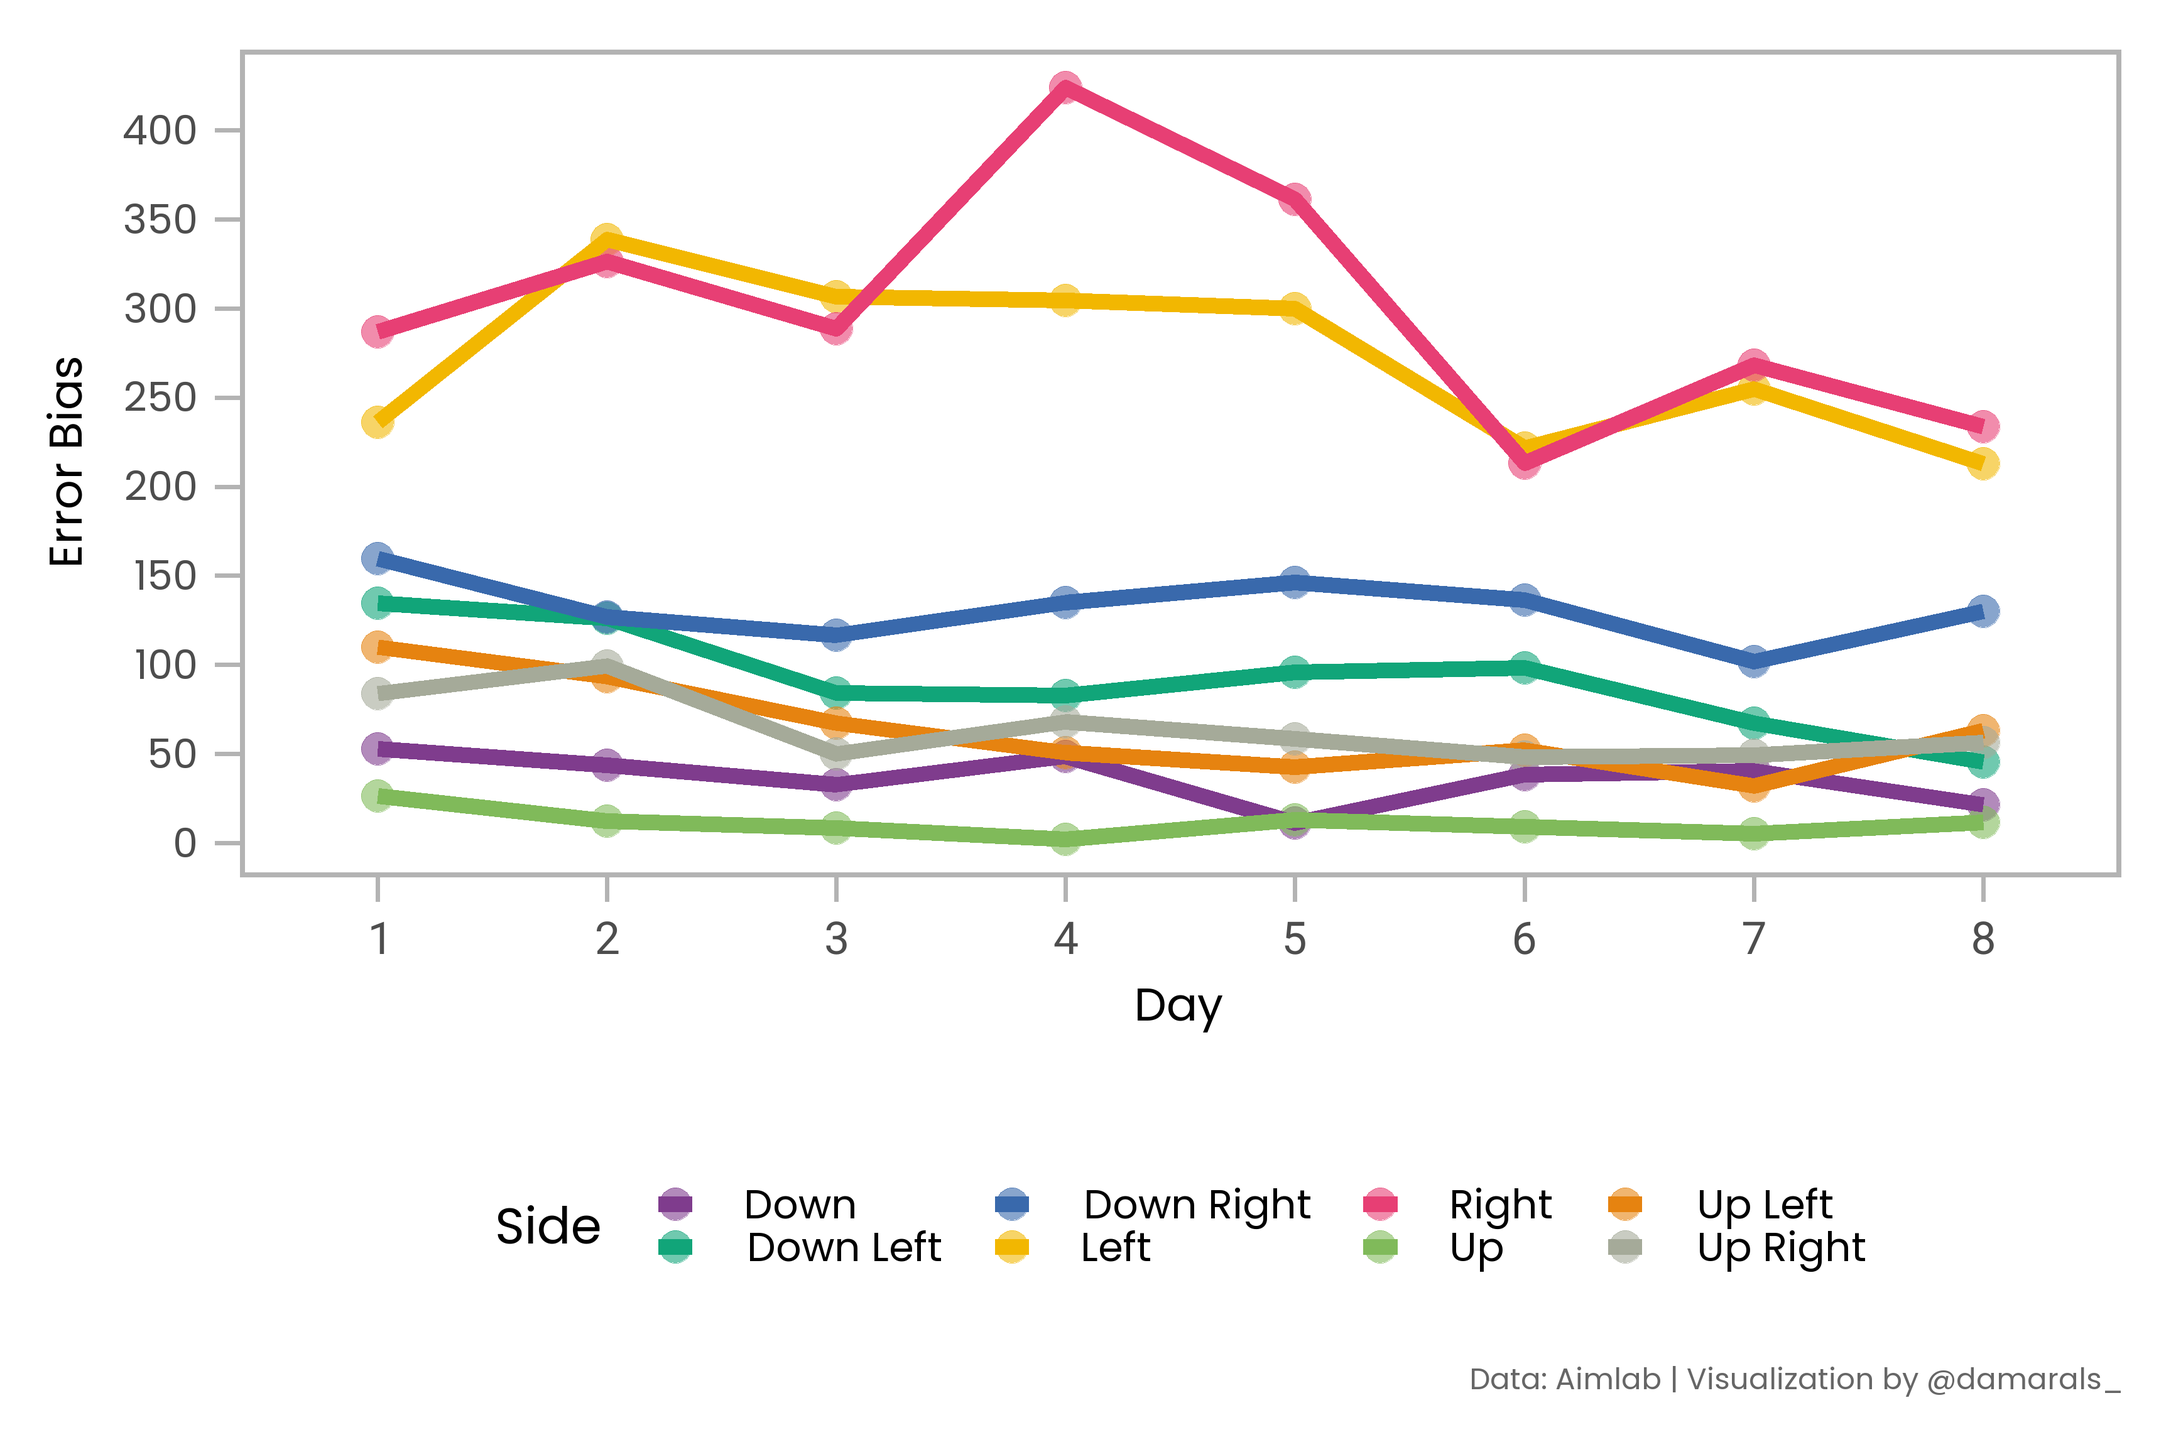
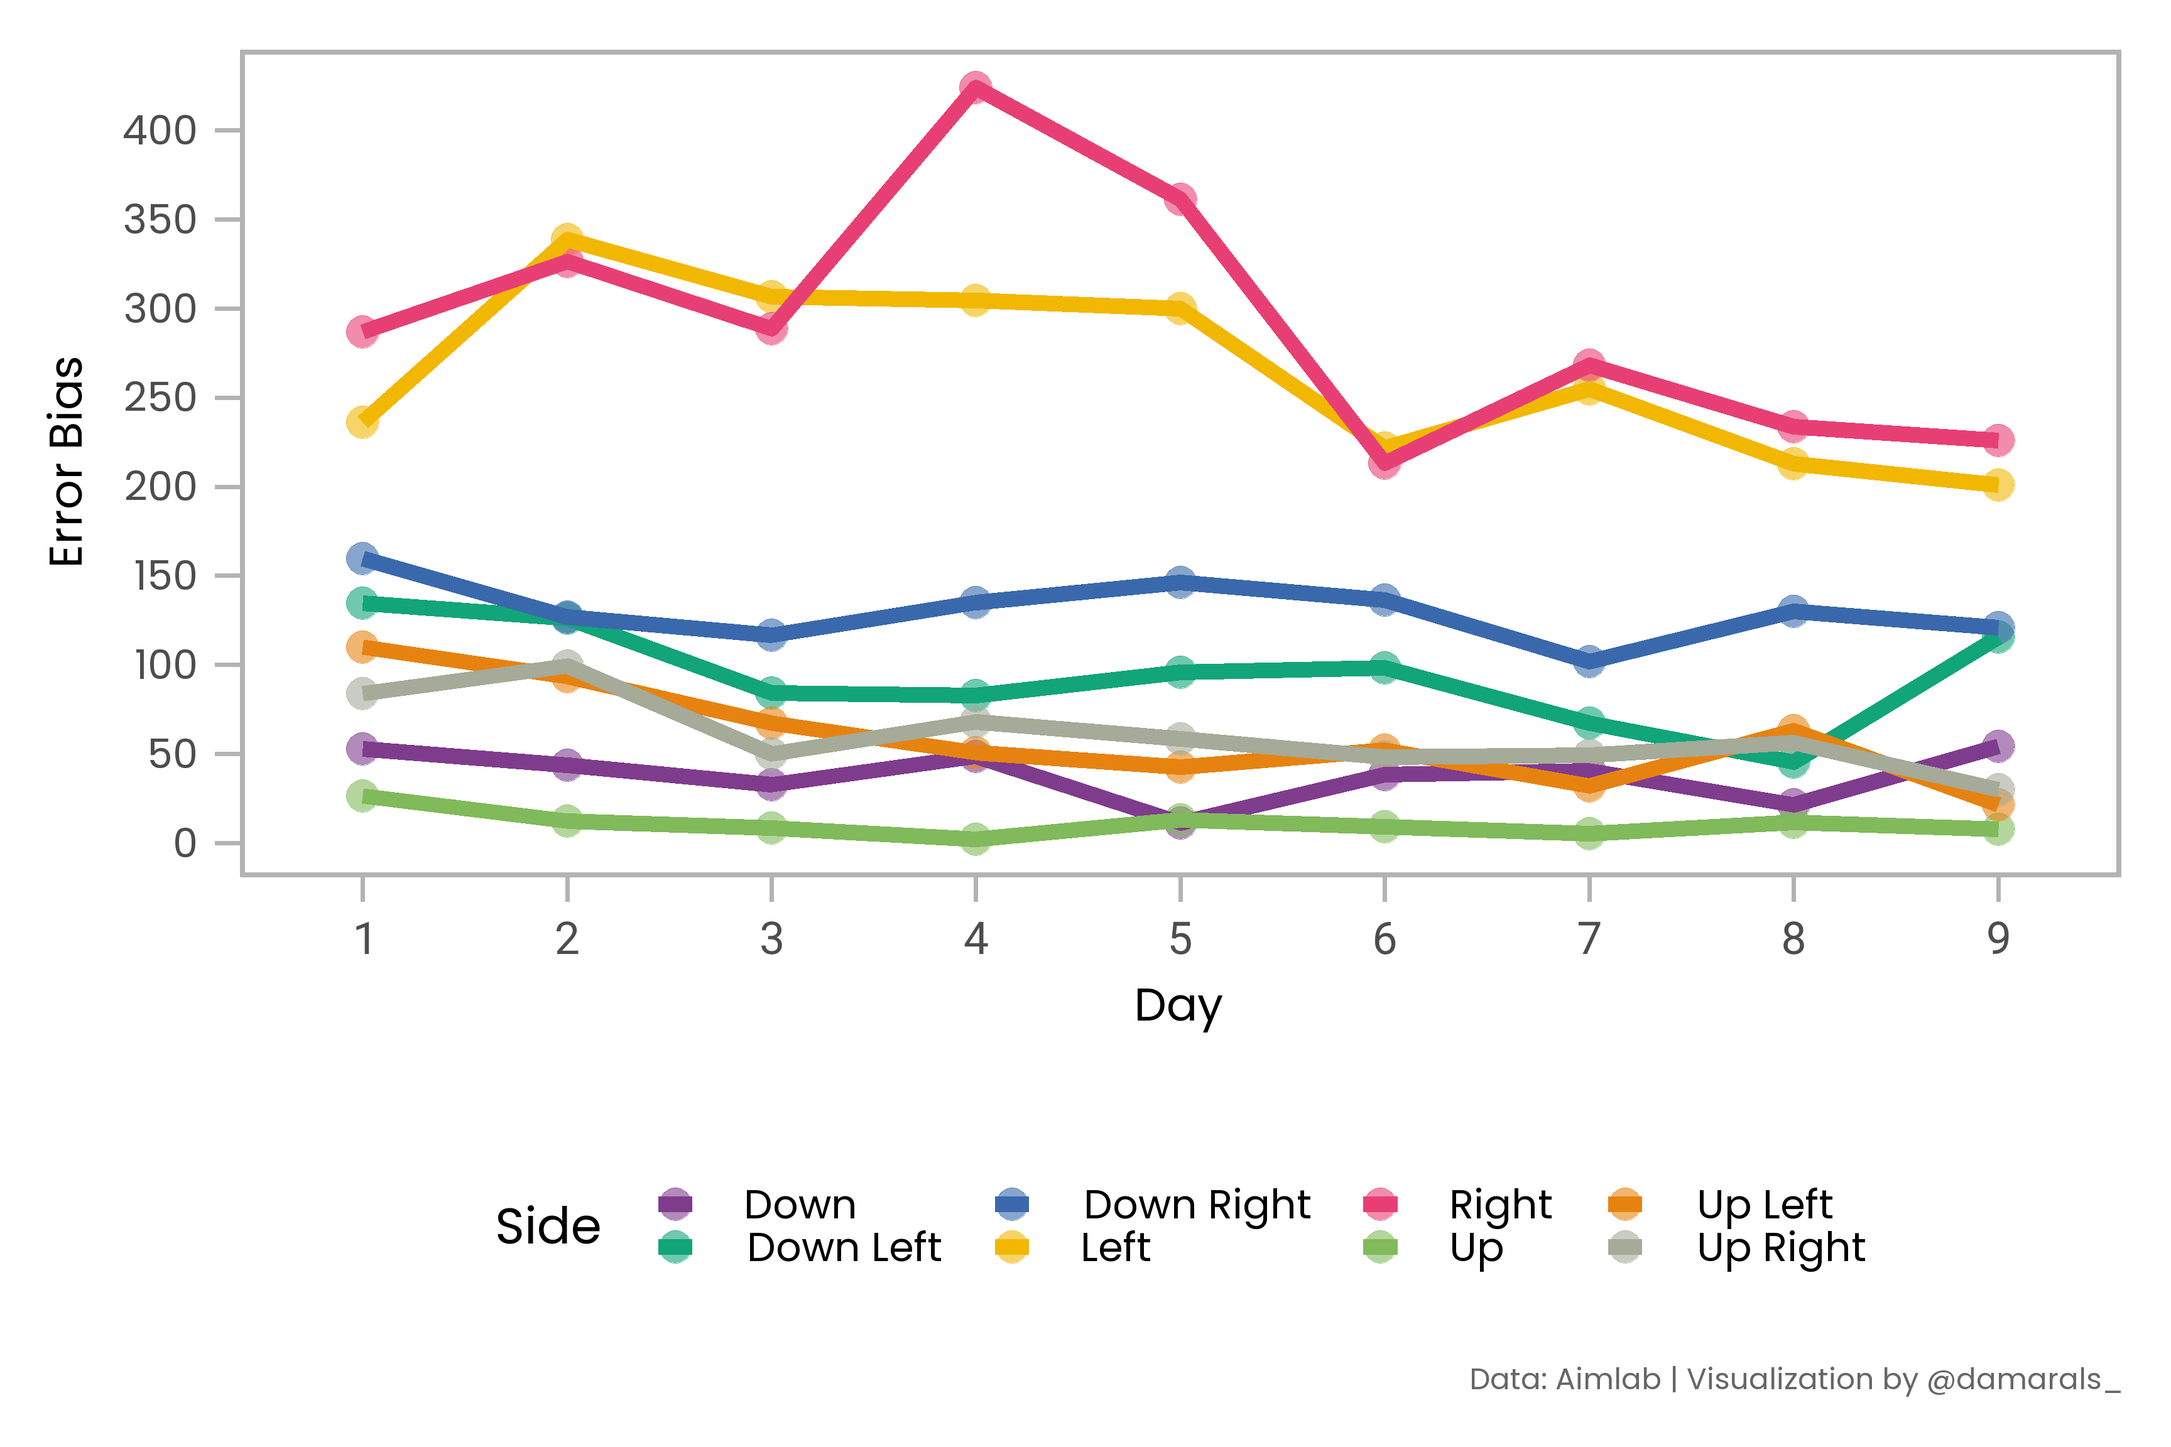
:sparkles: update data

diff --git a/docs/posts/2022-05-13_aimlab-is-worth/index.html b/docs/posts/2022-05-13_aimlab-is-worth/index.html
@@ -281,16 +281,17 @@ code span.wa { color: #60a0b0; font-weight: bold; font-style: italic; } /* Warni
 <span id="cb2-9"><a href="#cb2-9" aria-hidden="true" tabindex="-1"></a>    purrr<span class="sc">::</span><span class="fu">pluck</span>(<span class="st">"result"</span>) <span class="sc">%&gt;%</span></span>
 <span id="cb2-10"><a href="#cb2-10" aria-hidden="true" tabindex="-1"></a>    janitor<span class="sc">::</span><span class="fu">clean_names</span>() <span class="sc">%&gt;%</span></span>
 <span id="cb2-11"><a href="#cb2-11" aria-hidden="true" tabindex="-1"></a>    dplyr<span class="sc">::</span><span class="fu">mutate</span>(<span class="at">create_date =</span> lubridate<span class="sc">::</span><span class="fu">mdy_hms</span>(create_date),</span>
-<span id="cb2-12"><a href="#cb2-12" aria-hidden="true" tabindex="-1"></a>                  <span class="at">create_date_group =</span> lubridate<span class="sc">::</span><span class="fu">as_date</span>(create_date)) <span class="sc">%&gt;%</span></span>
-<span id="cb2-13"><a href="#cb2-13" aria-hidden="true" tabindex="-1"></a>    dplyr<span class="sc">::</span><span class="fu">filter</span>(create_date <span class="sc">&gt;</span> start_training) <span class="sc">%&gt;%</span></span>
-<span id="cb2-14"><a href="#cb2-14" aria-hidden="true" tabindex="-1"></a>    dplyr<span class="sc">::</span><span class="fu">group_by</span>(create_date_group) <span class="sc">%&gt;%</span></span>
-<span id="cb2-15"><a href="#cb2-15" aria-hidden="true" tabindex="-1"></a>    dplyr<span class="sc">::</span><span class="fu">top_n</span>(<span class="dv">5</span>, create_date) <span class="sc">%&gt;%</span></span>
-<span id="cb2-16"><a href="#cb2-16" aria-hidden="true" tabindex="-1"></a>    dplyr<span class="sc">::</span><span class="fu">ungroup</span>() <span class="sc">%&gt;%</span></span>
-<span id="cb2-17"><a href="#cb2-17" aria-hidden="true" tabindex="-1"></a>    dplyr<span class="sc">::</span><span class="fu">select</span>(<span class="sc">-</span>weapon_name, <span class="sc">-</span>map, <span class="sc">-</span>version, <span class="sc">-</span>mode) <span class="sc">%&gt;%</span></span>
-<span id="cb2-18"><a href="#cb2-18" aria-hidden="true" tabindex="-1"></a>    dplyr<span class="sc">::</span><span class="fu">mutate</span>(<span class="at">day =</span> dplyr<span class="sc">::</span><span class="fu">dense_rank</span>(create_date_group),</span>
-<span id="cb2-19"><a href="#cb2-19" aria-hidden="true" tabindex="-1"></a>                  <span class="at">day =</span> <span class="fu">factor</span>(day),</span>
-<span id="cb2-20"><a href="#cb2-20" aria-hidden="true" tabindex="-1"></a>                  <span class="at">create_date_group =</span> <span class="fu">factor</span>(create_date_group))</span>
-<span id="cb2-21"><a href="#cb2-21" aria-hidden="true" tabindex="-1"></a>})</span></code><button title="Copy to Clipboard" class="code-copy-button"><i class="bi"></i></button></pre></div>
+<span id="cb2-12"><a href="#cb2-12" aria-hidden="true" tabindex="-1"></a>                  <span class="at">create_date =</span> create_date <span class="sc">-</span> lubridate<span class="sc">::</span><span class="fu">hours</span>(<span class="dv">6</span>),</span>
+<span id="cb2-13"><a href="#cb2-13" aria-hidden="true" tabindex="-1"></a>                  <span class="at">create_date_group =</span> lubridate<span class="sc">::</span><span class="fu">as_date</span>(create_date)) <span class="sc">%&gt;%</span></span>
+<span id="cb2-14"><a href="#cb2-14" aria-hidden="true" tabindex="-1"></a>    dplyr<span class="sc">::</span><span class="fu">filter</span>(create_date <span class="sc">&gt;</span> start_training) <span class="sc">%&gt;%</span></span>
+<span id="cb2-15"><a href="#cb2-15" aria-hidden="true" tabindex="-1"></a>    dplyr<span class="sc">::</span><span class="fu">group_by</span>(create_date_group) <span class="sc">%&gt;%</span></span>
+<span id="cb2-16"><a href="#cb2-16" aria-hidden="true" tabindex="-1"></a>    dplyr<span class="sc">::</span><span class="fu">top_n</span>(<span class="dv">5</span>, create_date) <span class="sc">%&gt;%</span></span>
+<span id="cb2-17"><a href="#cb2-17" aria-hidden="true" tabindex="-1"></a>    dplyr<span class="sc">::</span><span class="fu">ungroup</span>() <span class="sc">%&gt;%</span></span>
+<span id="cb2-18"><a href="#cb2-18" aria-hidden="true" tabindex="-1"></a>    dplyr<span class="sc">::</span><span class="fu">select</span>(<span class="sc">-</span>weapon_name, <span class="sc">-</span>map, <span class="sc">-</span>version, <span class="sc">-</span>mode) <span class="sc">%&gt;%</span></span>
+<span id="cb2-19"><a href="#cb2-19" aria-hidden="true" tabindex="-1"></a>    dplyr<span class="sc">::</span><span class="fu">mutate</span>(<span class="at">day =</span> dplyr<span class="sc">::</span><span class="fu">dense_rank</span>(create_date_group),</span>
+<span id="cb2-20"><a href="#cb2-20" aria-hidden="true" tabindex="-1"></a>                  <span class="at">day =</span> <span class="fu">factor</span>(day),</span>
+<span id="cb2-21"><a href="#cb2-21" aria-hidden="true" tabindex="-1"></a>                  <span class="at">create_date_group =</span> <span class="fu">factor</span>(create_date_group))</span>
+<span id="cb2-22"><a href="#cb2-22" aria-hidden="true" tabindex="-1"></a>})</span></code><button title="Copy to Clipboard" class="code-copy-button"><i class="bi"></i></button></pre></div>
 </details>
 </div>
 </section>
@@ -634,27 +635,41 @@ code span.wa { color: #60a0b0; font-weight: bold; font-style: italic; } /* Warni
 <span id="cb13-10"><a href="#cb13-10" aria-hidden="true" tabindex="-1"></a>                        <span class="at">color =</span> <span class="st">"#A034F0"</span>, <span class="at">size =</span> <span class="dv">9</span>, <span class="at">alpha =</span> <span class="fl">0.6</span>) <span class="sc">+</span></span>
 <span id="cb13-11"><a href="#cb13-11" aria-hidden="true" tabindex="-1"></a>  ggplot2<span class="sc">::</span><span class="fu">stat_summary</span>(<span class="at">fun =</span> mean, <span class="at">geom =</span> <span class="st">"line"</span>,</span>
 <span id="cb13-12"><a href="#cb13-12" aria-hidden="true" tabindex="-1"></a>                        <span class="at">color =</span> <span class="st">"#A034F0"</span>, <span class="at">size =</span> <span class="dv">5</span>) <span class="sc">+</span></span>
-<span id="cb13-13"><a href="#cb13-13" aria-hidden="true" tabindex="-1"></a>  ggplot2<span class="sc">::</span><span class="fu">scale_y_continuous</span>(</span>
-<span id="cb13-14"><a href="#cb13-14" aria-hidden="true" tabindex="-1"></a>    <span class="at">breaks =</span> scales<span class="sc">::</span><span class="fu">pretty_breaks</span>(<span class="dv">8</span>),</span>
-<span id="cb13-15"><a href="#cb13-15" aria-hidden="true" tabindex="-1"></a>    <span class="at">sec.axis =</span> ggplot2<span class="sc">::</span><span class="fu">sec_axis</span>(<span class="sc">~</span><span class="dv">100</span><span class="sc">/</span>., <span class="at">name =</span> <span class="st">"Kills per Second"</span>,</span>
-<span id="cb13-16"><a href="#cb13-16" aria-hidden="true" tabindex="-1"></a>                                 <span class="at">breaks =</span> scales<span class="sc">::</span><span class="fu">pretty_breaks</span>(<span class="dv">8</span>))) <span class="sc">+</span></span>
-<span id="cb13-17"><a href="#cb13-17" aria-hidden="true" tabindex="-1"></a>  ggplot2<span class="sc">::</span><span class="fu">labs</span>(<span class="at">x =</span> <span class="st">"Day"</span>, <span class="at">y =</span> <span class="st">"Time to Complete (s)"</span>,</span>
-<span id="cb13-18"><a href="#cb13-18" aria-hidden="true" tabindex="-1"></a>                <span class="at">caption =</span> <span class="st">"Data: Aimlab | Visualization by @damarals_"</span>) <span class="sc">+</span></span>
-<span id="cb13-19"><a href="#cb13-19" aria-hidden="true" tabindex="-1"></a>  danlib<span class="sc">::</span><span class="fu">dan_theme</span>(<span class="at">base_size =</span> <span class="dv">60</span>, <span class="at">axis_title_size =</span> <span class="dv">55</span>,</span>
-<span id="cb13-20"><a href="#cb13-20" aria-hidden="true" tabindex="-1"></a>                    <span class="at">axis_text_x_size =</span> <span class="dv">54</span>, <span class="at">caption_plot_size =</span> <span class="dv">35</span>)</span></code><button title="Copy to Clipboard" class="code-copy-button"><i class="bi"></i></button></pre></div>
+<span id="cb13-13"><a href="#cb13-13" aria-hidden="true" tabindex="-1"></a>  ggplot2<span class="sc">::</span><span class="fu">scale_y_continuous</span>(<span class="at">breaks =</span> scales<span class="sc">::</span><span class="fu">pretty_breaks</span>(<span class="dv">8</span>)) <span class="sc">+</span></span>
+<span id="cb13-14"><a href="#cb13-14" aria-hidden="true" tabindex="-1"></a>  ggplot2<span class="sc">::</span><span class="fu">labs</span>(<span class="at">x =</span> <span class="st">"Day"</span>, <span class="at">y =</span> <span class="st">"Time to Complete (s)"</span>,</span>
+<span id="cb13-15"><a href="#cb13-15" aria-hidden="true" tabindex="-1"></a>                <span class="at">caption =</span> <span class="st">"Data: Aimlab | Visualization by @damarals_"</span>) <span class="sc">+</span></span>
+<span id="cb13-16"><a href="#cb13-16" aria-hidden="true" tabindex="-1"></a>  danlib<span class="sc">::</span><span class="fu">dan_theme</span>(<span class="at">base_size =</span> <span class="dv">60</span>, <span class="at">axis_title_size =</span> <span class="dv">55</span>,</span>
+<span id="cb13-17"><a href="#cb13-17" aria-hidden="true" tabindex="-1"></a>                    <span class="at">axis_text_x_size =</span> <span class="dv">54</span>, <span class="at">caption_plot_size =</span> <span class="dv">35</span>)</span></code><button title="Copy to Clipboard" class="code-copy-button"><i class="bi"></i></button></pre></div>
 </details>
-<div class="cell-output cell-output-stderr">
-<pre><code>Warning: Removed 21 rows containing non-finite values (stat_summary).
-Removed 21 rows containing non-finite values (stat_summary).</code></pre>
-</div>
-<div class="cell-output cell-output-stderr">
-<pre><code>geom_path: Each group consists of only one observation. Do you need to adjust
-the group aesthetic?</code></pre>
-</div>
 <div class="cell-output-display">
 <div class="quarto-figure quarto-figure-center">
 <figure class="figure">
 <p><img src="index_files/figure-html/unnamed-chunk-13-1.png" class="img-fluid figure-img" width="1728"></p>
+</figure>
+</div>
+</div>
+</div>
+<div class="cell" data-layout-align="center" data-fig.dpi="300">
+<details>
+<summary>Code</summary>
+<div class="sourceCode cell-code" id="cb14"><pre class="sourceCode r code-with-copy"><code class="sourceCode r"><span id="cb14-1"><a href="#cb14-1" aria-hidden="true" tabindex="-1"></a>val_task <span class="sc">%&gt;%</span></span>
+<span id="cb14-2"><a href="#cb14-2" aria-hidden="true" tabindex="-1"></a>  dplyr<span class="sc">::</span><span class="fu">mutate</span>(<span class="at">kills_per_sec =</span> <span class="dv">100</span><span class="sc">/</span>time_to_complete) <span class="sc">%&gt;%</span></span>
+<span id="cb14-3"><a href="#cb14-3" aria-hidden="true" tabindex="-1"></a>  ggplot2<span class="sc">::</span><span class="fu">ggplot</span>() <span class="sc">+</span></span>
+<span id="cb14-4"><a href="#cb14-4" aria-hidden="true" tabindex="-1"></a>  ggplot2<span class="sc">::</span><span class="fu">aes</span>(<span class="at">x =</span> day, <span class="at">y =</span> kills_per_sec, <span class="at">group =</span> <span class="dv">1</span>) <span class="sc">+</span></span>
+<span id="cb14-5"><a href="#cb14-5" aria-hidden="true" tabindex="-1"></a>  ggplot2<span class="sc">::</span><span class="fu">stat_summary</span>(<span class="at">fun =</span> mean, <span class="at">geom =</span> <span class="st">"point"</span>,</span>
+<span id="cb14-6"><a href="#cb14-6" aria-hidden="true" tabindex="-1"></a>                        <span class="at">color =</span> <span class="st">"#A034F0"</span>, <span class="at">size =</span> <span class="dv">9</span>, <span class="at">alpha =</span> <span class="fl">0.6</span>) <span class="sc">+</span></span>
+<span id="cb14-7"><a href="#cb14-7" aria-hidden="true" tabindex="-1"></a>  ggplot2<span class="sc">::</span><span class="fu">stat_summary</span>(<span class="at">fun =</span> mean, <span class="at">geom =</span> <span class="st">"line"</span>,</span>
+<span id="cb14-8"><a href="#cb14-8" aria-hidden="true" tabindex="-1"></a>                        <span class="at">color =</span> <span class="st">"#A034F0"</span>, <span class="at">size =</span> <span class="dv">5</span>) <span class="sc">+</span></span>
+<span id="cb14-9"><a href="#cb14-9" aria-hidden="true" tabindex="-1"></a>  ggplot2<span class="sc">::</span><span class="fu">scale_y_continuous</span>(<span class="at">breaks =</span> scales<span class="sc">::</span><span class="fu">pretty_breaks</span>(<span class="dv">8</span>)) <span class="sc">+</span></span>
+<span id="cb14-10"><a href="#cb14-10" aria-hidden="true" tabindex="-1"></a>  ggplot2<span class="sc">::</span><span class="fu">labs</span>(<span class="at">x =</span> <span class="st">"Day"</span>, <span class="at">y =</span> <span class="st">"Kills per Second"</span>,</span>
+<span id="cb14-11"><a href="#cb14-11" aria-hidden="true" tabindex="-1"></a>                <span class="at">caption =</span> <span class="st">"Data: Aimlab | Visualization by @damarals_"</span>) <span class="sc">+</span></span>
+<span id="cb14-12"><a href="#cb14-12" aria-hidden="true" tabindex="-1"></a>  danlib<span class="sc">::</span><span class="fu">dan_theme</span>(<span class="at">base_size =</span> <span class="dv">60</span>, <span class="at">axis_title_size =</span> <span class="dv">55</span>,</span>
+<span id="cb14-13"><a href="#cb14-13" aria-hidden="true" tabindex="-1"></a>                    <span class="at">axis_text_x_size =</span> <span class="dv">54</span>, <span class="at">caption_plot_size =</span> <span class="dv">35</span>)</span></code><button title="Copy to Clipboard" class="code-copy-button"><i class="bi"></i></button></pre></div>
+</details>
+<div class="cell-output-display">
+<div class="quarto-figure quarto-figure-center">
+<figure class="figure">
+<p><img src="index_files/figure-html/unnamed-chunk-14-1.png" class="img-fluid figure-img" width="1728"></p>
 </figure>
 </div>
 </div>

diff --git a/docs/index.html b/docs/index.html
@@ -156,7 +156,7 @@ ul.task-list{list-style: none;}
 
 <div class="quarto-listing quarto-listing-container-default" id="listing-listing">
 <div class="list quarto-listing-default">
-<div class="quarto-post image-right" data-index="0" data-categories="Games,DataViz" data-listing-date-sort="1652324400000" data-listing-file-modified-sort="1652840444790" data-listing-reading-time-sort="15.885">
+<div class="quarto-post image-right" data-index="0" data-categories="Games,DataViz" data-listing-date-sort="1652324400000" data-listing-file-modified-sort="1652887096760" data-listing-reading-time-sort="16.635">
 <div class="thumbnail">
 <p><a href="./posts/2022-05-13_aimlab-is-worth/index.html"> <img src="./posts/2022-05-13_aimlab-is-worth/img/aimlab.jpg" class="thumnail-image"> </a></p>
 </div>
@@ -185,7 +185,7 @@ DataViz
 May 12, 2022
 </div>
 <div class="listing-reading-time">
-15 min
+16 min
 </div>
 </a>
 </div>
